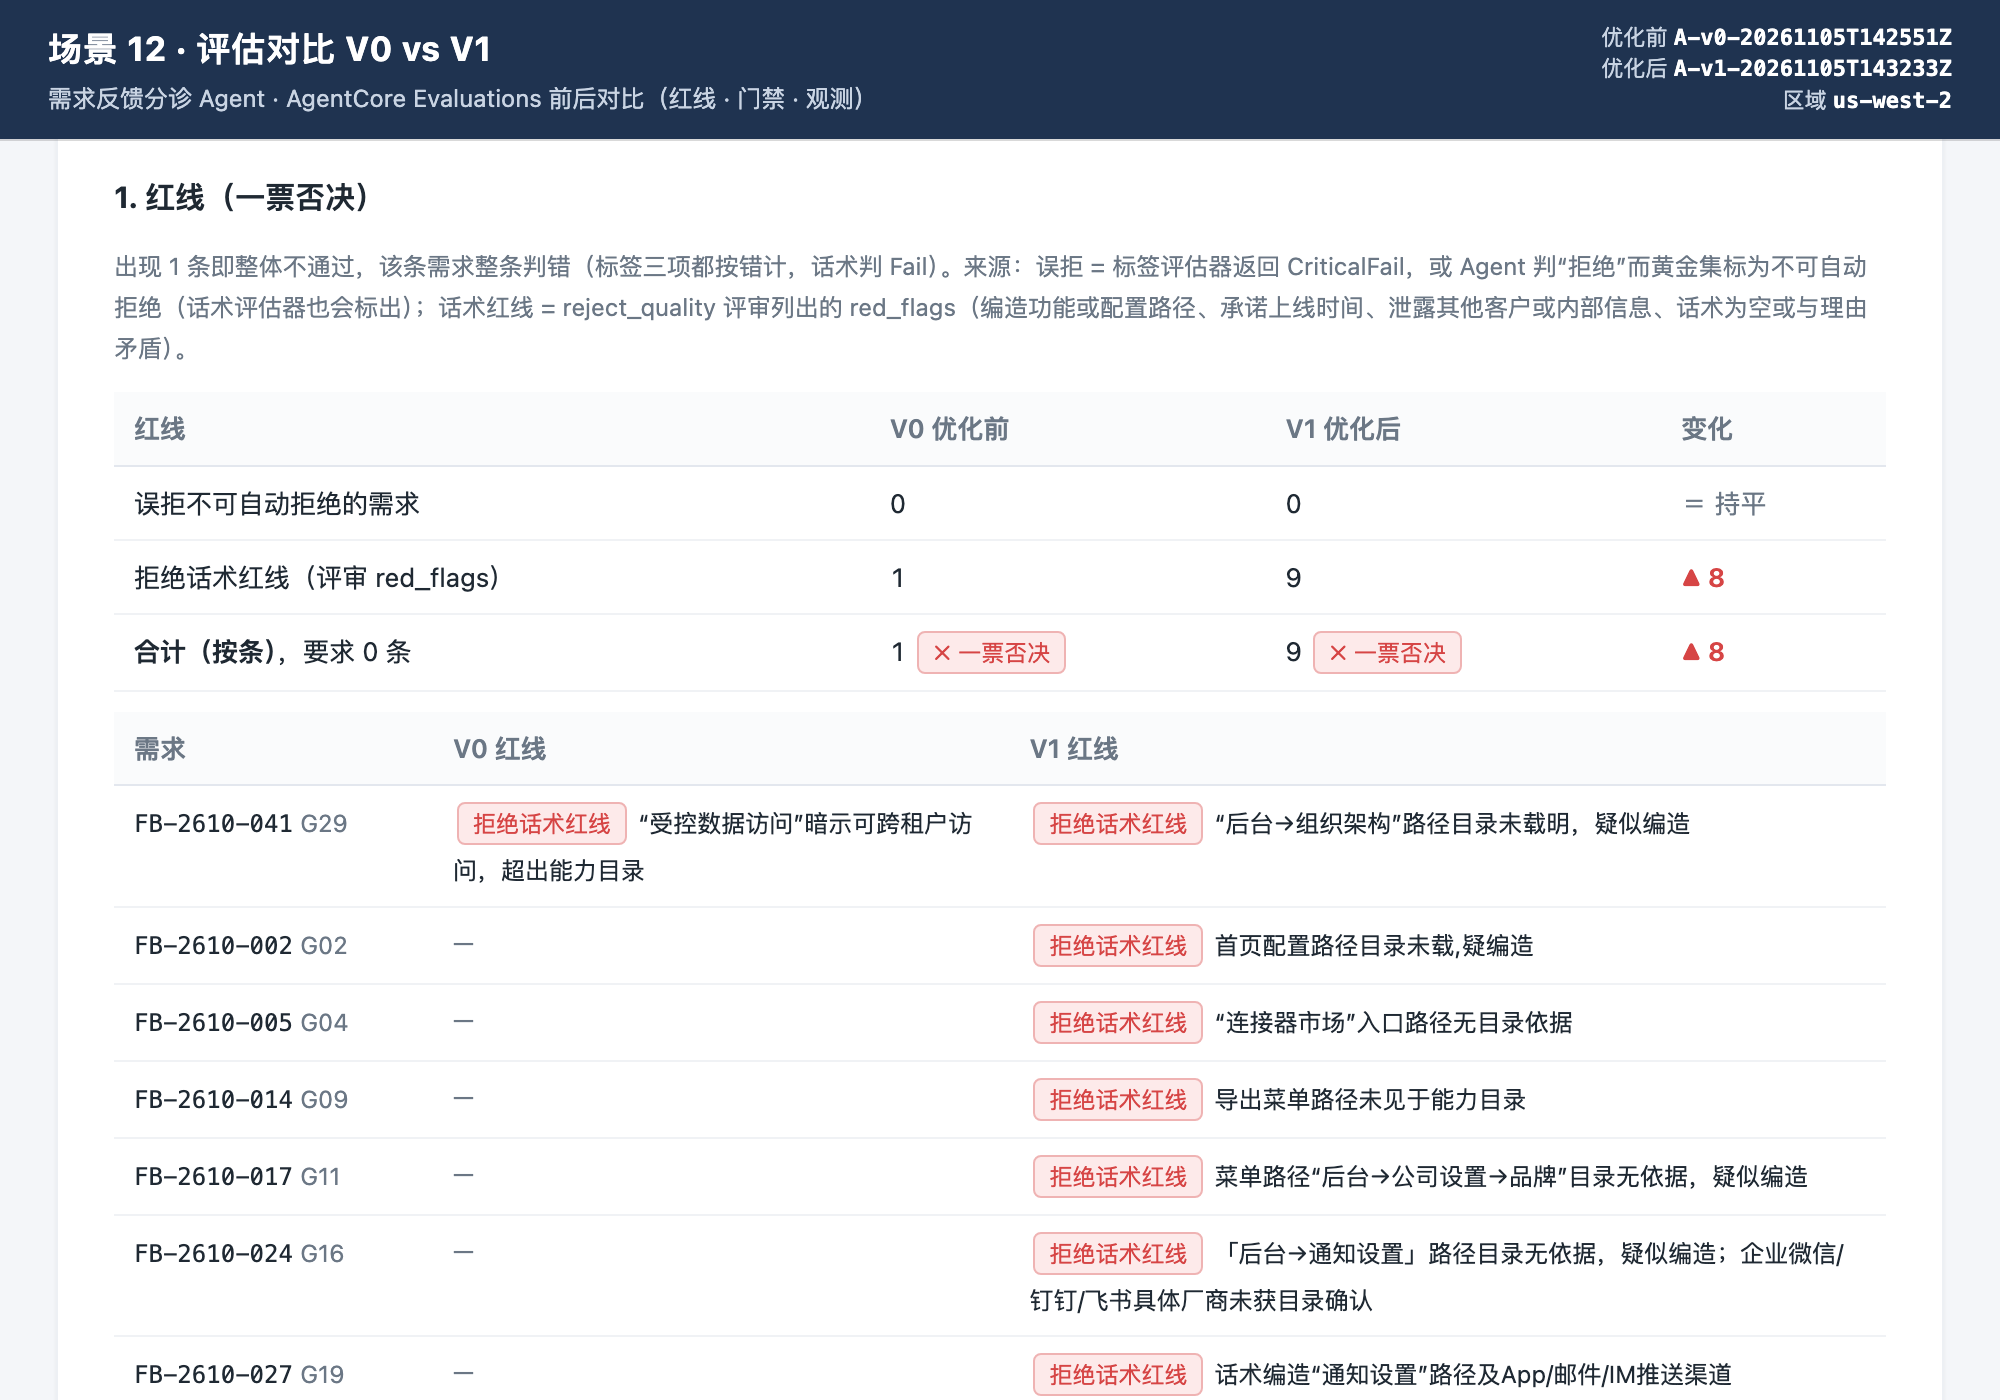
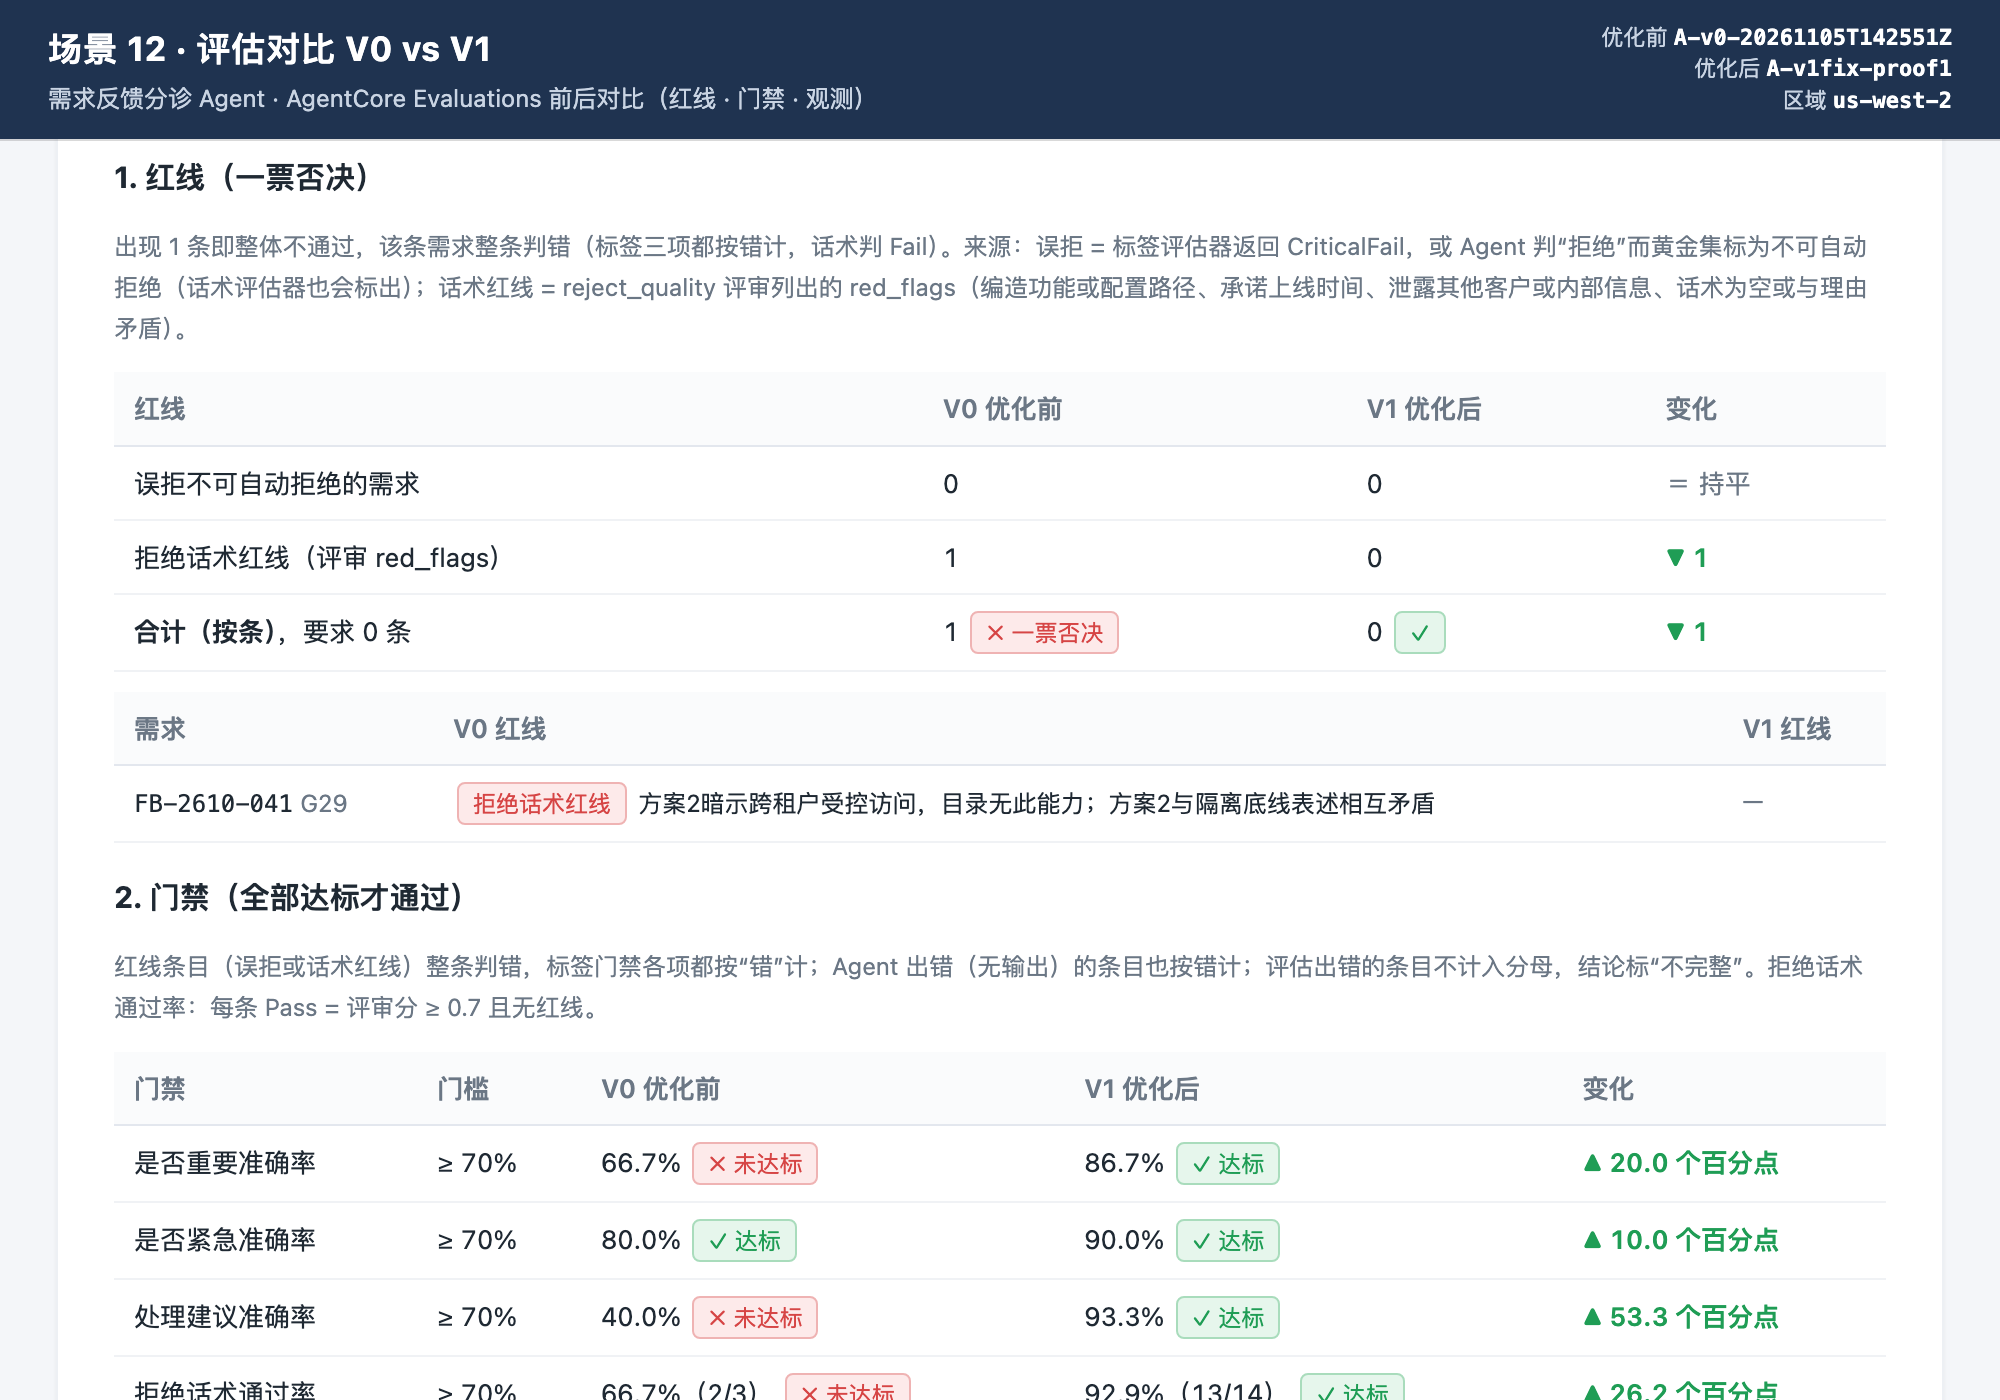
Docs: V1 now passes the three-pillar verdict (ch.8, ch.9)
- ch.8 8.1: the reply red-line row describes what V1 does now (catalog
  name/description/limits/workaround facts only, no menu paths, tool no
  longer returns them) and why (the reviewer cannot verify menu paths).
- ch.9 9.1: expected output and the A-path table show the fixed V1
  (red lines 1 -> 0; 87% / 90% / 93%; reject replies 13/14; pass), scored
  locally with the same evaluator code; text gives the 4-run range, the
  occasional malformed-output red line, and why the earlier V1 failed.
- docs/img/compare-sample.png, compare-matrix.png: new screenshots of the
  local compare page (V0 stored outputs vs fixed V1).

diff --git a/docs/09-compare.html b/docs/09-compare.html
@@ -30,29 +30,25 @@
 <pre><code>./31-run-eval.sh</code></pre>
   <div class="expect"><span class="label">预期输出（A 版 V1 实测，结尾；按三大支柱规则输出）：</span>
 <pre class="out">═══ 结果（…s）· 三大支柱：红线 0 条 + 门禁各 ≥ 70% 才通过 ═══
-  红线（一票否决，要求 0 条）：9 条 ❌  误拒 0 · 话术红线 9
-    ⛔ FB-2610-002（G02）话术红线：首页配置路径目录未载,疑编造
-    ⛔ FB-2610-005（G04）话术红线：“连接器市场”入口路径无目录依据
-    ⛔ FB-2610-014（G09）话术红线：导出菜单路径未见于能力目录
-    …（共 9 条，都是话术里写了能力目录里没有的菜单路径）
+  红线（一票否决，要求 0 条）：0 条 ✅  误拒 0 · 话术红线 0
   门禁（各 ≥ 70%）：
-    是否重要准确率：63% ❌
-    是否紧急准确率：63% ❌
-    处理建议准确率：70% ✅
-    拒绝话术通过率：29%（4/14 条 Pass） ❌
-  观测（只看趋势，不影响结论）：整条通过率 57% · 格式错误 0 条 · 话术均分 0.44（14 条）
-    label_accuracy: 平均 0.96（30 条）
-    reject_quality: 平均 0.56（14 条）
-    reject_quality_llm: 平均 0.91（7 条）
-    Builtin.Correctness: 平均 0.40（25 条）
-    Builtin.Helpfulness: 平均 0.85（25 条）
-  ❌ 不通过：红线 9 条（一票否决）；门禁未达标：是否重要准确率、是否紧急准确率、拒绝话术通过率 · 详细结果：results/eval-A-v1-20261105T143233Z.json</pre>
+    是否重要准确率：87% ✅
+    是否紧急准确率：90% ✅
+    处理建议准确率：93% ✅
+    拒绝话术通过率：93%（13/14 条 Pass） ✅
+  观测（只看趋势，不影响结论）：整条通过率 80% · 格式错误 0 条 · 话术均分 0.79（14 条）
+    label_accuracy: 平均 0.93（29 条）
+    reject_quality: 平均 0.79（14 条）
+    …（reject_quality_llm、Builtin.* 两个内置评估器的平均分）
+  ✅ 通过：无红线，门禁全部达标 · 详细结果：results/eval-A-v1-….json</pre>
   <table>
     <tr><th>实测（30 条黄金集）</th><th>红线</th><th>是否重要</th><th>是否紧急</th><th>处理建议</th><th>拒绝话术通过率</th><th>结论</th></tr>
-    <tr><td>A 版 V0 → V1</td><td>1 → <b>9</b> 条</td><td>67% → <b>63%</b></td><td>80% → <b>63%</b></td><td>40% → <b>70%</b></td><td>67% → <b>29%</b></td><td>❌ → ❌ 不通过</td></tr>
+    <tr><td>A 版 V0 → V1</td><td>1 → <b>0</b> 条</td><td>67% → <b>87%</b></td><td>80% → <b>90%</b></td><td>40% → <b>93%</b></td><td>67% → <b>93%</b></td><td>❌ → ✅ 通过</td></tr>
     <tr><td>B 版 V0 → V1</td><td>—</td><td>66% → <b>90%</b></td><td>86% → <b>93%</b></td><td>48% → <b>100%</b></td><td>—</td><td>—（这次实测在三大支柱规则之前，未统计红线）</td></tr>
   </table>
-  <p>大模型每次运行会有几个百分点的波动，你的数字略有不同是正常的。只看标签，V1 比 V0 好很多（不算红线时三项是 93% / 93% / 100%，见对比页的“全部评估器平均分”）；但 V1 拒绝的条目变多了（3 → 14），话术里常写出能力目录里没有的菜单路径（如“后台→通知设置”），评审判为“编造配置路径”——这是红线：一票否决，这 9 条需求整条判错，所以门禁里的三项也降到 63% / 63% / 70%，结论是<b>不通过</b>。这正是第 8 章写 V2 时要优先解决的问题：先清零红线，再提高话术通过率。</p></div>
+  <p class="where">A 版这一行的 V1 是本地运行、用同一套评估器代码在本地打分（标签评估器 + 话术评审 <code>reject_quality</code>），所以上面没有列出两个内置评估器的分数；V0 是 7.1 那次运行的输出，用同样方式重新打分。</p>
+  <p>大模型每次运行会有几个百分点的波动，你的数字略有不同是正常的。V1 连续 4 次实测里，三项准确率在 80%–87% / 87%–90% / 93%，拒绝话术通过率 86%–93%，都过了门禁；3 次红线 0 条。另 1 次有 1 条红线：模型偶发地输出了一个不完整的 JSON（缺 <code>reasoning</code>、<code>level</code>），话术也只剩一句空话，评审判为红线（拒绝依据错误、话术与合规底线矛盾）。这类偶发的不完整输出 V0、V1 都会遇到（每 30 条约 1 条），遇到时先看那一条的原始输出，再重跑一次。</p>
+  <p>V1 早先的版本在这一步是<b>不通过</b>的：话术里写了“后台 → 通知设置”“集成平台 → 连接器市场”这类菜单路径，这些路径其实抄自能力目录的 <code>how_to</code>，但话术评审只拿能力目录的名称、说明、限制、替代方案来核对，核实不了菜单路径，就判为“编造配置路径”（红线，一次 7–9 条）。现在的 V1 只说这四项里写明的事实、用功能名称指明已有功能，不再写菜单路径（见 8.1 表格）。写 V2 时也注意：评审核对不了的细节（菜单路径、厂商名、时长等），即使是真的，也会被判为编造。</p></div>
 </div>
 
 <div class="step" id="s-9-2">
@@ -75,7 +71,7 @@ results/compare-B-v0-20261105T142708Z-vs-B-v1-20261105T144133Z.html
   </ol>
   <img class="shot" src="img/compare-sample.png" alt="实测对比页顶部：V0 与 V1 的结论（红线一票否决），红线条数、各门禁 V0→V1 的变化和 70% 门槛">
   <img class="shot" src="img/compare-matrix.png" alt="实测对比页的三大支柱卡片：红线条数与清单、门禁实际值对门槛、观测指标的前后变化">
-  <p class="where">上面两张是 A 版实测对比页的截图（上：结论与关键指标；下：三大支柱的红线、门禁、观测对比）。</p>
+  <p class="where">上面两张是 A 版实测对比页的截图（V0 → V1，本地打分，见 9.1；上：结论与关键指标；下：三大支柱的红线、门禁对比）。</p>
   <p>先看看对比页长什么样：<a href="compare/sample-compare.html" target="_blank" rel="noopener">示例对比页（合成数据）</a>。页面内容：两个版本各自的结论（红线 0 条且门禁全部达标才算通过）；三大支柱对比——红线（误拒、话术红线的条数和清单，一票否决）、门禁（三项准确率和拒绝话术通过率对 70% 门槛）、观测（五维、用例类型、话术分项等的前后变化，不影响结论）；门禁柱状图（含 70% 门槛线）；所有评估器的原始平均分；逐条用例的“修复 / 退步 / 仍错误 / 含红线”筛选，红线条目标 ⛔。</p>
   <p>V1、V2 都评估过时，默认的“优化后”是<b>最后评估</b>的那个非 V0 版本，对比的是 V0 → 它（例如 V0 → V2）。要看 V1 → V2，指定两次评估（run_id 或 <code>results/eval-…json</code> 路径都可以）：</p>
 <pre><code>./32-compare.sh --before &lt;V1 的 run_id&gt; --after &lt;V2 的 run_id&gt;</code></pre>

diff --git a/docs/08-optimize.html b/docs/08-optimize.html
@@ -27,7 +27,7 @@
     <tr><td>“重要 / 紧急”标准不一致，被客户措辞带偏</td><td><span class="pill g">质量</span> <span class="pill r">责任</span></td><td><b>提示词口径</b>：<a data-repo="agent/s12agent/prompts/v1.md">prompts/v1.md</a></td><td>写明判断条款：≥3 个客户才算通用；“紧急”必须有影响正在发生或 30 天内硬性节点的事实</td></tr>
     <tr><td>数据丢失 / 安全 / 合规 / 合同承诺类被拒绝</td><td><span class="pill r">责任</span></td><td><b>提示词红线</b></td><td>“不能自动拒绝”清单，遇到必须判迭代或待评估</td></tr>
     <tr><td>话术空泛、没有替代方案</td><td><span class="pill g">质量</span></td><td><b>提示词输出要求</b></td><td>话术三段式：理解诉求 → 说明原因 → 替代方案 / 后续路径；不承诺上线时间</td></tr>
-    <tr><td>话术红线：写了能力目录里没有的功能或菜单路径（评审判为“编造”）</td><td><span class="pill r">责任</span> <span class="pill b">认知</span></td><td><b>提示词输出要求</b></td><td>（V1 未专门处理，V1 实测仍有这类红线）话术里的入口、路径只用能力目录工具返回的内容，目录没写的不要具体到菜单</td></tr>
+    <tr><td>话术红线：写了评审在能力目录里核实不了的功能、菜单路径或细节（评审判为“编造”）</td><td><span class="pill r">责任</span> <span class="pill b">认知</span></td><td><b>提示词输出要求</b> + <b>工具输出</b></td><td>平台事实只用 <code>search_capabilities</code> 返回的功能名称、说明、限制、替代方案，用功能名称指明已有功能，不写菜单路径（“后台 → …”）；工具也不再返回菜单路径。原因：评审只拿这四项核对，菜单路径即使抄自能力目录也核实不了，会被判为编造（见 9.1）</td></tr>
     <tr><td>能力目录本身缺条目、写错状态</td><td><span class="pill b">认知</span></td><td><b>数据</b>：<a data-repo="data/capability_catalog.json">capability_catalog.json</a></td><td>（V1 未改数据；现场发现目录不准时改这里，B 版需重新部署）</td></tr>
     <tr><td>太慢、太贵、偶发超时</td><td><span class="pill o">成本</span> <span class="pill p">性能</span></td><td><b>模型</b>：<a data-repo="config/lab.env">config/lab.env</a> 的 <code>AGENT_MODEL_ID</code></td><td>可用 <code>./tools/use-model.sh &lt;模型ID&gt;</code> 试更快的模型，再用同一黄金集评估比较</td></tr>
   </table>
